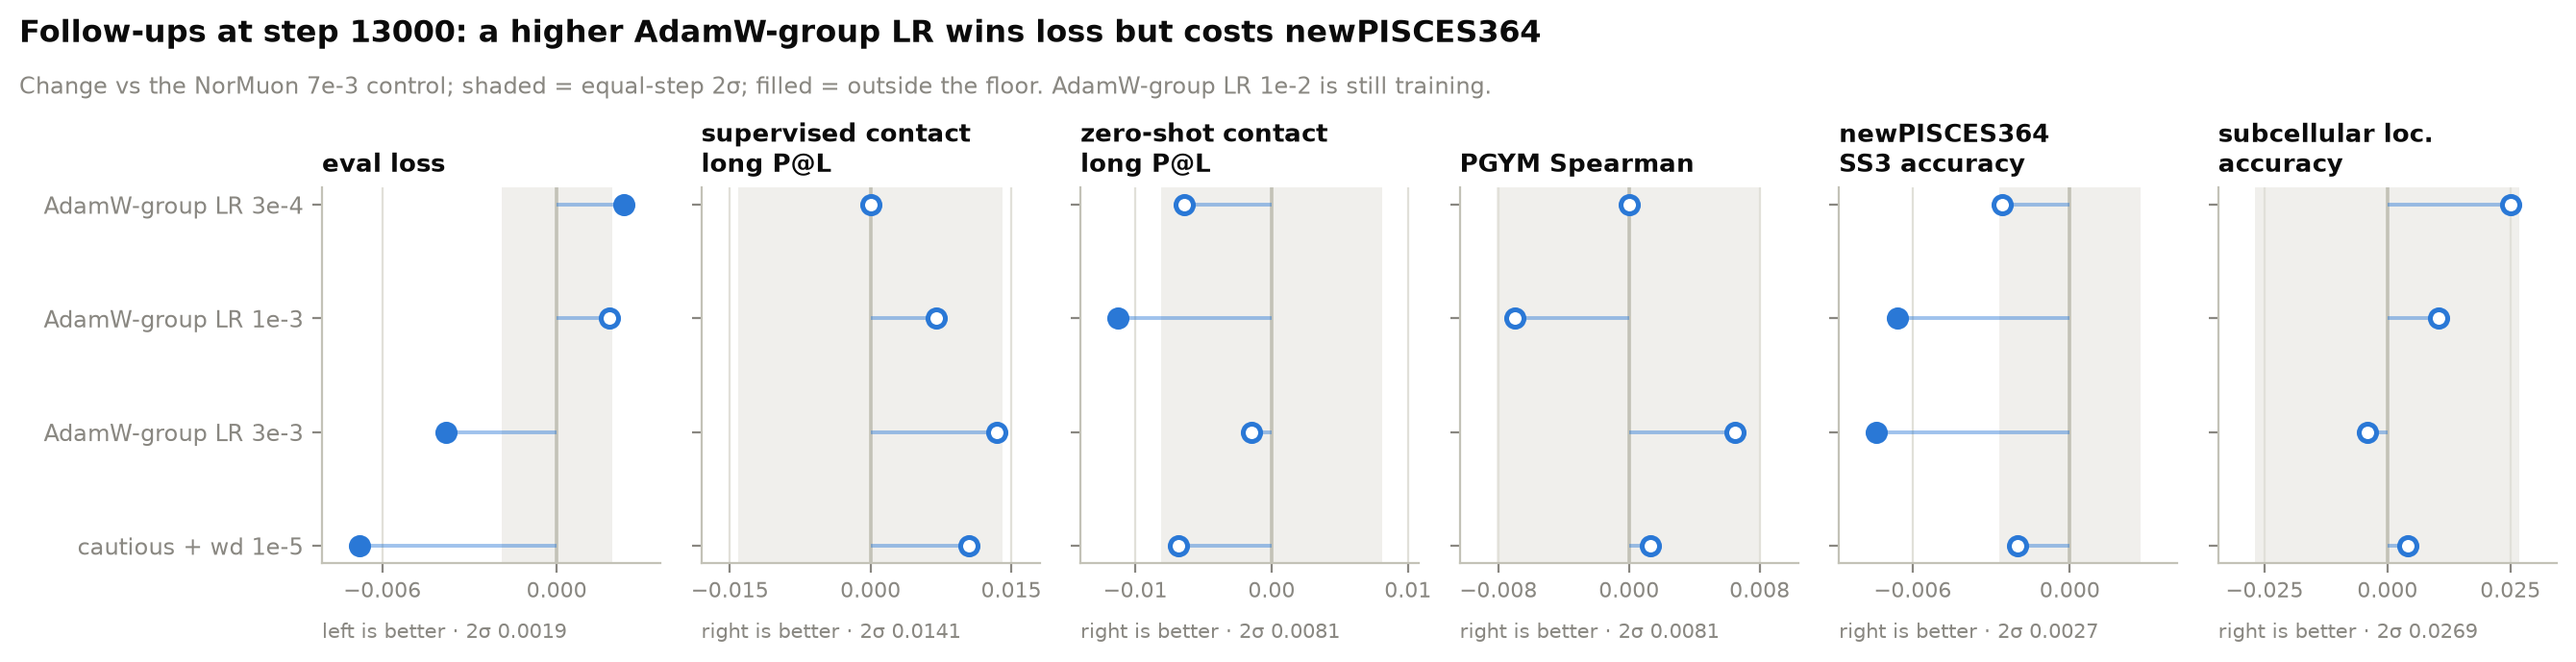
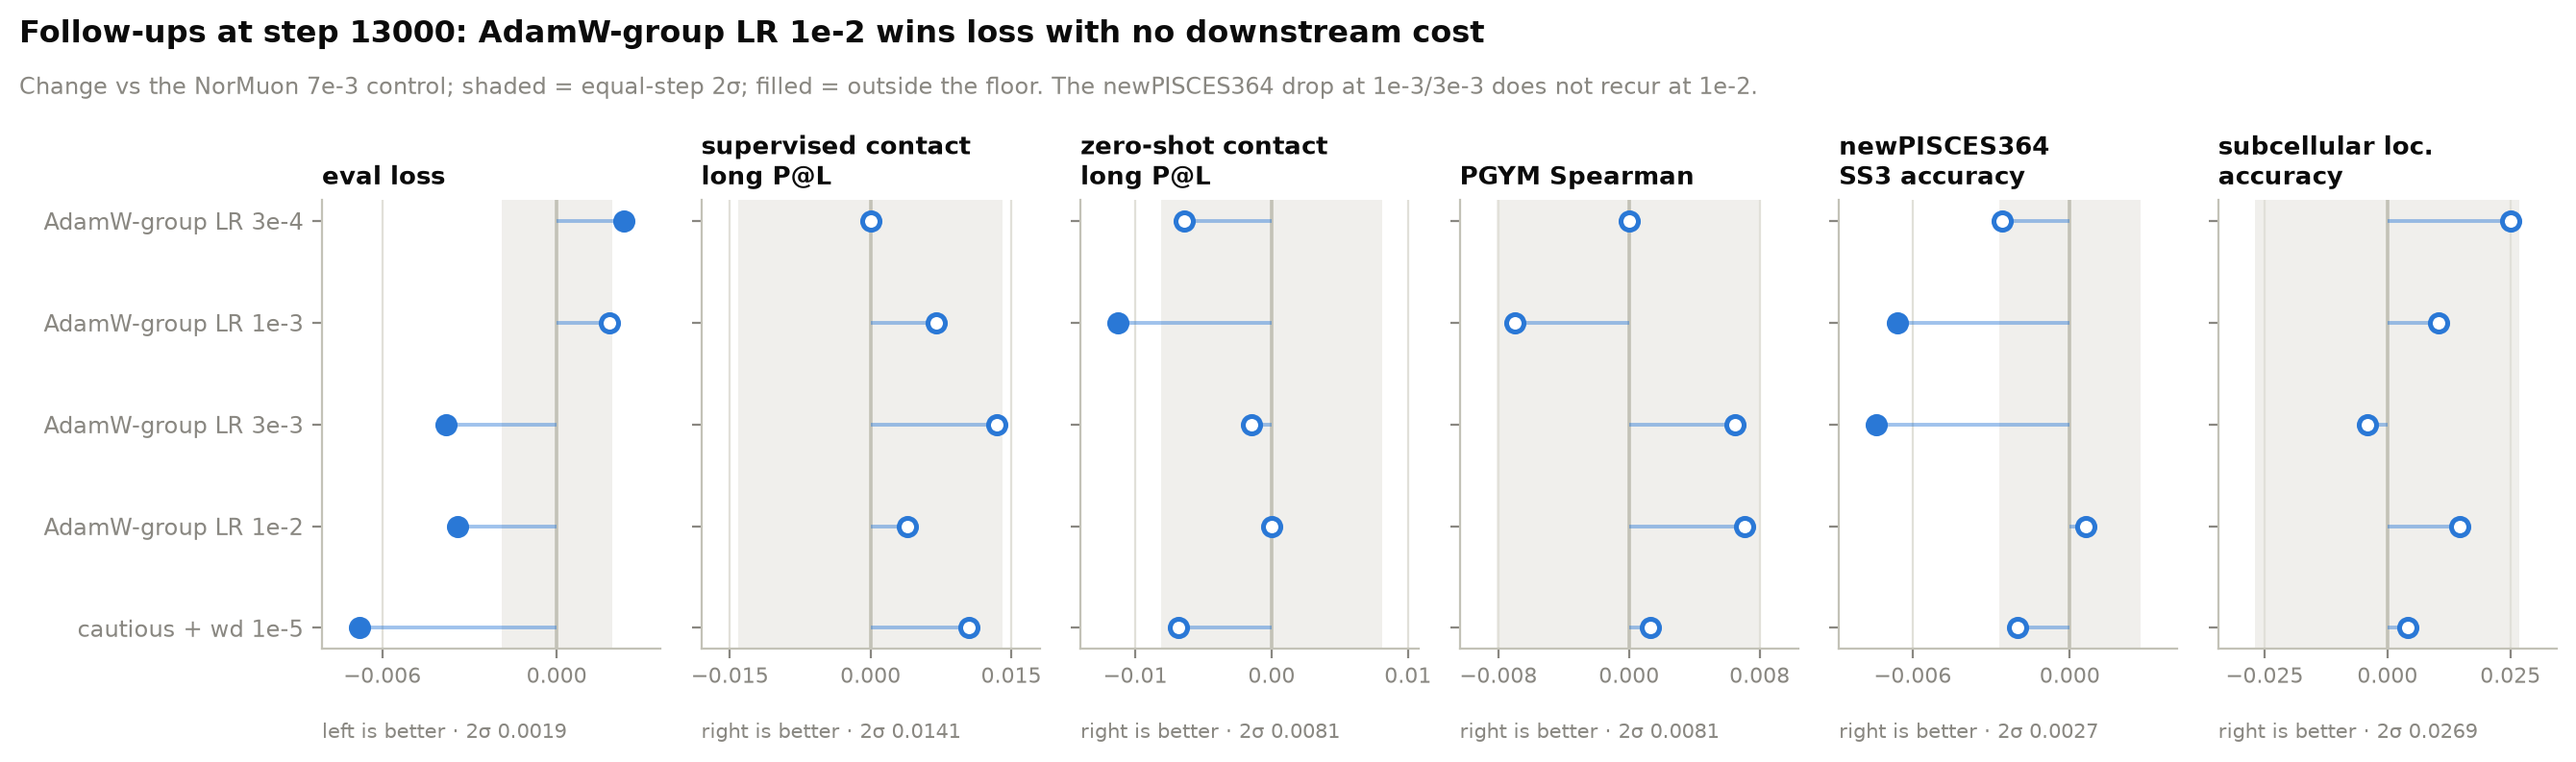
results(optim): AdamW-group LR 1e-2 brackets the sweep; loss plateau 3e-3..1e-2 with no downstream cost at 1e-2

diff --git a/results.md b/results.md
@@ -375,13 +375,19 @@ equal-step floors:
 | AdamW-group LR 3e-4 | 0.0000 | -0.0064 | 0.0000 | -0.0026 | +0.0250 |
 | AdamW-group LR 1e-3 | -0.0070 | **-0.0113** | +0.0070 | **-0.0066** | +0.0104 |
 | AdamW-group LR 3e-3 | +0.0065 | -0.0015 | +0.0135 | **-0.0074** | -0.0041 |
+| AdamW-group LR 1e-2 | +0.0071 | 0.0000 | +0.0039 | +0.0006 | +0.0146 |
 | cautious + wd 1e-5 | +0.0013 | -0.0068 | +0.0105 | -0.0020 | +0.0042 |
 | 2 sigma | 0.0081 | 0.0081 | 0.0141 | 0.0027 | 0.0269 |
 
-Bold = outside the floor. **A higher AdamW-group LR costs secondary
-structure**: newPISCES364 drops 0.0066 at 1e-3 and 0.0074 at 3e-3 (2.4-2.7x
-its floor), so 3e-3's loss win is not free; 1e-3 also loses zero-shot contact
-(1.4x). Nothing else clears. Read before adopting any AdamW-group LR change.
+Bold = outside the floor. newPISCES364 drops 0.0066 at 1e-3 and 0.0074 at
+3e-3 (2.4-2.7x its floor), and 1e-3 also loses zero-shot contact (1.4x). **But
+the 1e-2 arm, which brackets the sweep, has the same loss gain (-0.0034 vs
+-0.0038 at 3e-3, a plateau) with no cost anywhere** (newPISCES364 +0.0006,
+every column inside its floor). So the newPISCES364 drop is not a monotone
+cost of the higher LR; with one seed per arm it reads as a fluctuation at
+1e-3/3e-3, not a trade-off. The AdamW-group LR plateau is 3e-3 to 1e-2, with
+1e-2 the cleaner candidate; measured on the stock base, so it is re-checked on
+the modernized base before it goes into the recipe.
 
 Four arms trained from step 0 to 13000 on the NorMuon 7e-3 control's exact
 config, read against that control at the same step (2.1936 at 13000; the
@@ -614,7 +620,7 @@ verdicts, re-read:
 | batch 4M vs 1M @46.6B: PGYM | +0.0110 | 1.4x | marginal (loss decides) |
 | batch 1M vs 4M @46.6B: zero-shot | +0.0042 | 0.5x | noise |
 | NorMuon AdamW-group LR 3e-3: supervised / PGYM | +0.0135 / +0.0065 | 0.96x / 0.8x | noise |
-| NorMuon AdamW-group LR 3e-3 / 1e-3: newPISCES364 | -0.0074 / -0.0066 | 2.7x / 2.4x | **real cost** |
+| NorMuon AdamW-group LR 3e-3 / 1e-3: newPISCES364 | -0.0074 / -0.0066 | 2.7x / 2.4x | outside the floor, but absent at 1e-2 (+0.0006): not a monotone cost |
 | cautious + wd 1e-5: supervised | +0.0105 | 0.7x | noise |
 | masking 15% vs 20% (80/10/10): zero-shot long P@L | +0.0083 | 0.8-1.0x | **noise** |
 | masking 15% vs 20% (80/10/10): PGYM | +0.0032 | 0.4x | **noise** |
